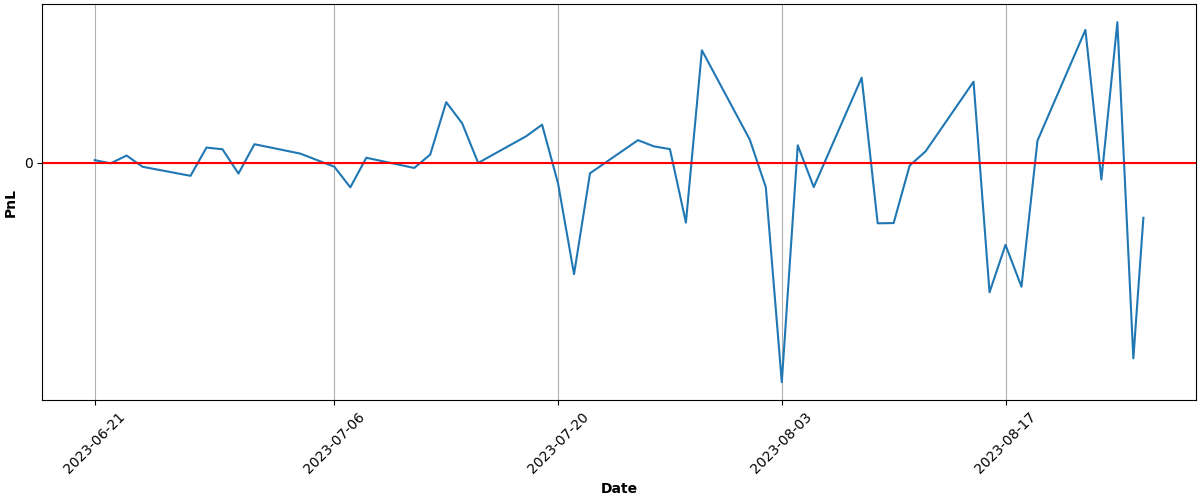
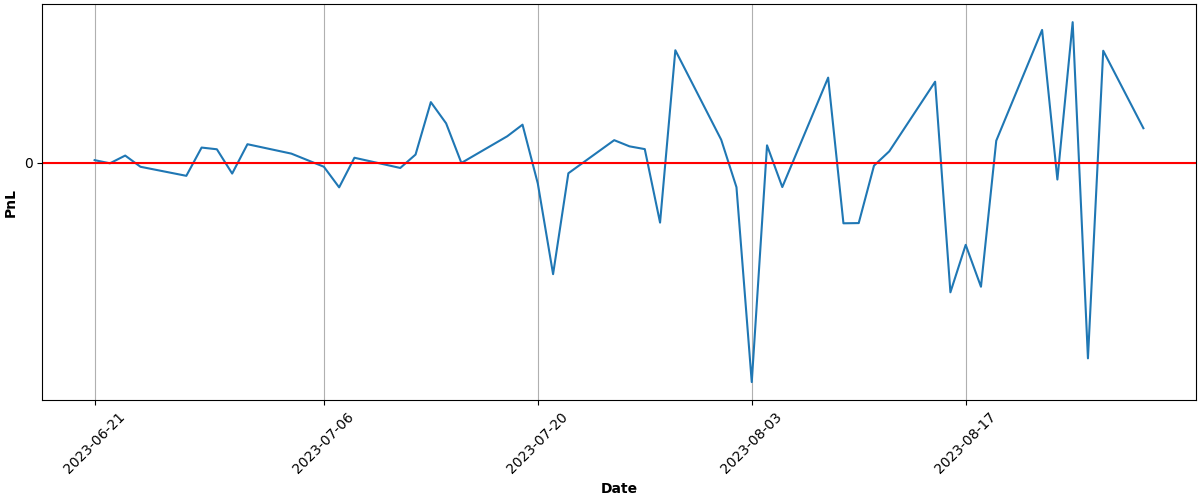
Automated Buy At Mon Aug 28 15:04:51 UTC 2023 Run ID 6001548750

diff --git a/README.md b/README.md
@@ -68,9 +68,9 @@ Results
 
 | Asset | Average Price | Current Price | ROI | 📈 |
 | --- | --- | --- | --- | --- |
-| FNGU | $182.890671662 | $152.6035 | -16.56% | &#128308;&#128546; |
-| SVIX | $27.553765 | $26.27 | -4.66% | &#128308;&#128546; |
-| **Total** |  |  | **-10.26%** | &#128308;&#128557; |
+| FNGU | $182.397961897 | $161.13 | -11.66% | &#128308;&#128546; |
+| SVIX | $27.553765 | $28.33 | 2.82% | &#128994;&#128515; |
+| **Total** |  |  | **-4.07%** | &#128308;&#128557; |
 
 ### PnL over time (calculations may not be accurate):
 
@@ -81,6 +81,6 @@ Results
 ---
 
 
-Updated at 2023-08-25 15:05:06
+Updated at 2023-08-28 15:05:08
 
 
